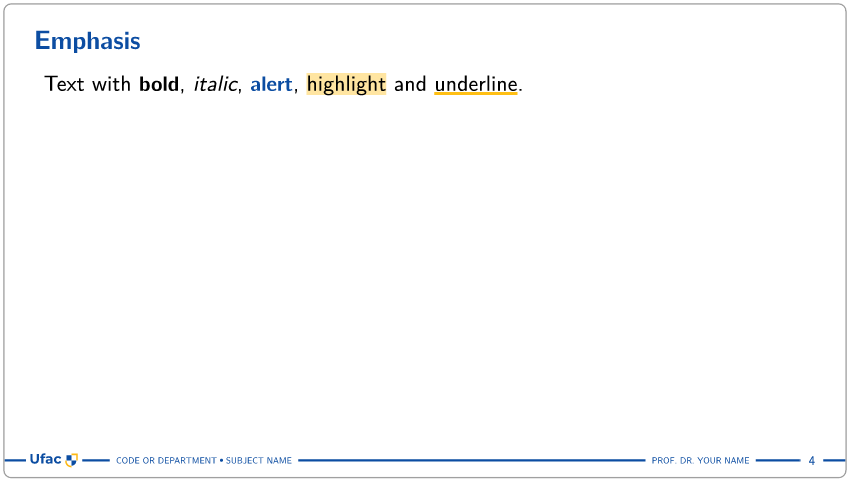
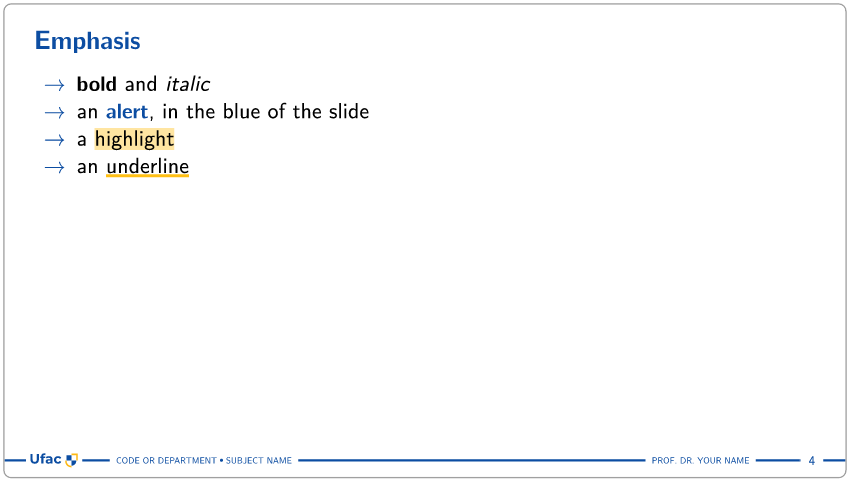
README: os elementos na ordem do manual, o sep do #answer, os nomes dos blocos com pílula, a célula colorida da tabela e as ênfases em setas; os comentários do coursework e do tcc em 120 colunas

Changed region(s): [[0.0306, 0.1245, 0.6118, 0.3734]]

diff --git a/README.md b/README.md
@@ -74,18 +74,18 @@ Text.
 
 ## Elements
 
-Headings make the slides, and a few Markdown-like shorthands make boxes, quotes and arrow lists. Every detail is in the [manual](https://github.com/lucaslrodri/touying-ufac-unofficial/blob/v0.3.0/docs/manual.pdf).
+Headings make the slides, and a few Markdown-like shorthands make arrow lists, emphases, boxes and quotes. Every detail is in the [manual](https://github.com/lucaslrodri/touying-ufac-unofficial/blob/v0.3.0/docs/manual.pdf).
 
 | Preview | Element |
 | --- | --- |
 | <img src="https://raw.githubusercontent.com/lucaslrodri/touying-ufac-unofficial/v0.3.0/docs/readme/element-slide.png" width="340" alt="A slide with a subtitle, arrows, a box and a tip"> | **Slides.** `==` opens a slide and `===` adds a subtitle; `---` goes on to a new page. `->` at the start of a paragraph makes a list with arrows. |
-| <img src="https://raw.githubusercontent.com/lucaslrodri/touying-ufac-unofficial/v0.3.0/docs/readme/element-emphasis.png" width="340" alt="A slide with bold, italic, alert, highlight and underline"> | **Emphasis.** `*bold*`, `_italic_`, `~~alert~~`, `==highlight==` and `~underline~`. |
 | <img src="https://raw.githubusercontent.com/lucaslrodri/touying-ufac-unofficial/v0.3.0/docs/readme/element-section.png" width="340" alt="A section slide with a figure on the right"> | **Sections.** `= Title` opens a section slide; an image after it goes on the right. |
-| <img src="https://raw.githubusercontent.com/lucaslrodri/touying-ufac-unofficial/v0.3.0/docs/readme/element-exercise.png" width="340" alt="An exercise with its answer"> | **Exercises and examples.** `== Title <exercise>` or `<example>`, numbered. `#answer` opens the answer, and `#solution` the solution. |
-| <img src="https://raw.githubusercontent.com/lucaslrodri/touying-ufac-unofficial/v0.3.0/docs/readme/element-boxes.png" width="340" alt="A box, a quotation and an equation box"> | **Boxes.** `> text` makes a box and `> $ … $` an equation box. A paragraph of only `"A quotation."` is a quote. |
+| <img src="https://raw.githubusercontent.com/lucaslrodri/touying-ufac-unofficial/v0.3.0/docs/readme/element-exercise.png" width="340" alt="An exercise with its answer"> | **Exercises and examples.** `== Title <exercise>` or `<example>`, numbered. `#answer` (in an exercise) or `#solution` (in an example) opens the answer; `#answer(sep: ":")` writes "Answer:". |
+| <img src="https://raw.githubusercontent.com/lucaslrodri/touying-ufac-unofficial/v0.3.0/docs/readme/element-emphasis.png" width="340" alt="Arrows with bold, italic, alert, highlight and underline"> | **Emphasis.** `*bold*`, `_italic_`, `~~alert~~`, `==highlight==` and `~underline~`. |
+| <img src="https://raw.githubusercontent.com/lucaslrodri/touying-ufac-unofficial/v0.3.0/docs/readme/element-boxes.png" width="340" alt="A box, a quotation and an equation box"> | **Boxes.** `> text` makes a box and `> $ … $` an equation box. `"A quotation."` alone in a paragraph is a quote. |
 | <img src="https://raw.githubusercontent.com/lucaslrodri/touying-ufac-unofficial/v0.3.0/docs/readme/element-callouts.png" width="340" alt="Callouts: caution, tip, remark, note, example and examples"> | **Callouts.** `#caution`, `#tip`, `#remark`, `#note`, `#example` and `#examples`. |
-| <img src="https://raw.githubusercontent.com/lucaslrodri/touying-ufac-unofficial/v0.3.0/docs/readme/element-code.png" width="340" alt="Python code and its output"> | **Code.** A fenced block of Python, Typst, MATLAB or shell shows its language; a `text` block is the output. |
-| <img src="https://raw.githubusercontent.com/lucaslrodri/touying-ufac-unofficial/v0.3.0/docs/readme/element-table.png" width="340" alt="A table with a blue header"> | **Tables.** The header row is blue, and a cell filled with a light tone colors its bold text. |
+| <img src="https://raw.githubusercontent.com/lucaslrodri/touying-ufac-unofficial/v0.3.0/docs/readme/element-code.png" width="340" alt="Python code and its output"> | **Code.** A fenced `python`, `typst`, `matlab`, `bash` or `sh` block shows its language; a `text` block is the output. |
+| <img src="https://raw.githubusercontent.com/lucaslrodri/touying-ufac-unofficial/v0.3.0/docs/readme/element-table.png" width="340" alt="A table with a blue header"> | **Tables.** The header row is blue, and a cell filled with a light tone of `colors` (`table.cell(fill: colors.secondary-lighter)`) colors its bold text. |
 | <img src="https://raw.githubusercontent.com/lucaslrodri/touying-ufac-unofficial/v0.3.0/docs/readme/element-ending.png" width="340" alt="The closing slide"> | **Closing slide.** `#ending-slide[Thank you!][Subtitle][Body]`. |
 
 ## Examples
@@ -199,8 +199,9 @@ Mars 1.87
 <summary>Show the code of example/coursework.typ</summary>
 
 ````typst
-// Example deck of the touying-ufac-unofficial theme: a paper for a course (`flavor: "coursework"`), with the students and
-// the teacher in groups on the cover (the cover layout "stack", which the flavor brings) and `#info` inside the slides.
+// Example deck of the touying-ufac-unofficial theme: a paper for a course (`flavor: "coursework"`), with the students
+// and the teacher in groups on the cover (the cover layout "stack", which the flavor brings) and `#info` inside the
+// slides.
 #import "@preview/touying:0.7.4": *
 #import "@preview/touying-ufac-unofficial:0.3.0": *
 
@@ -248,8 +249,9 @@ $ overline(x) = 20 "min", quad s = sqrt((100 + 25 + 0 + 25 + 100) / 4) approx 7.
 <summary>Show the code of example/tcc.typ</summary>
 
 ````typst
-// Example deck of the touying-ufac-unofficial theme: the defense of a final paper (`flavor: "tcc"`), with the student, the
-// advisor and the co-advisor written as free content, the cover style "gradient" and the tag of the work on the cover.
+// Example deck of the touying-ufac-unofficial theme: the defense of a final paper (`flavor: "tcc"`), with the student,
+// the advisor and the co-advisor written as free content, the cover style "gradient" and the tag of the work on the
+// cover.
 #import "@preview/touying:0.7.4": *
 #import "@preview/touying-ufac-unofficial:0.3.0": *
 
